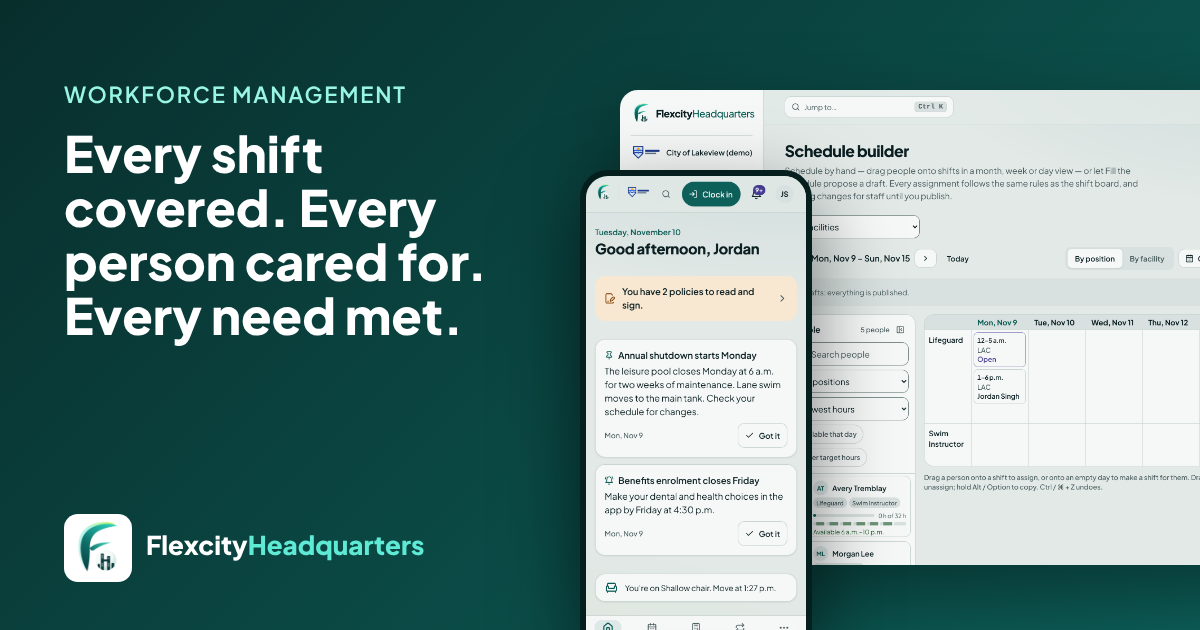
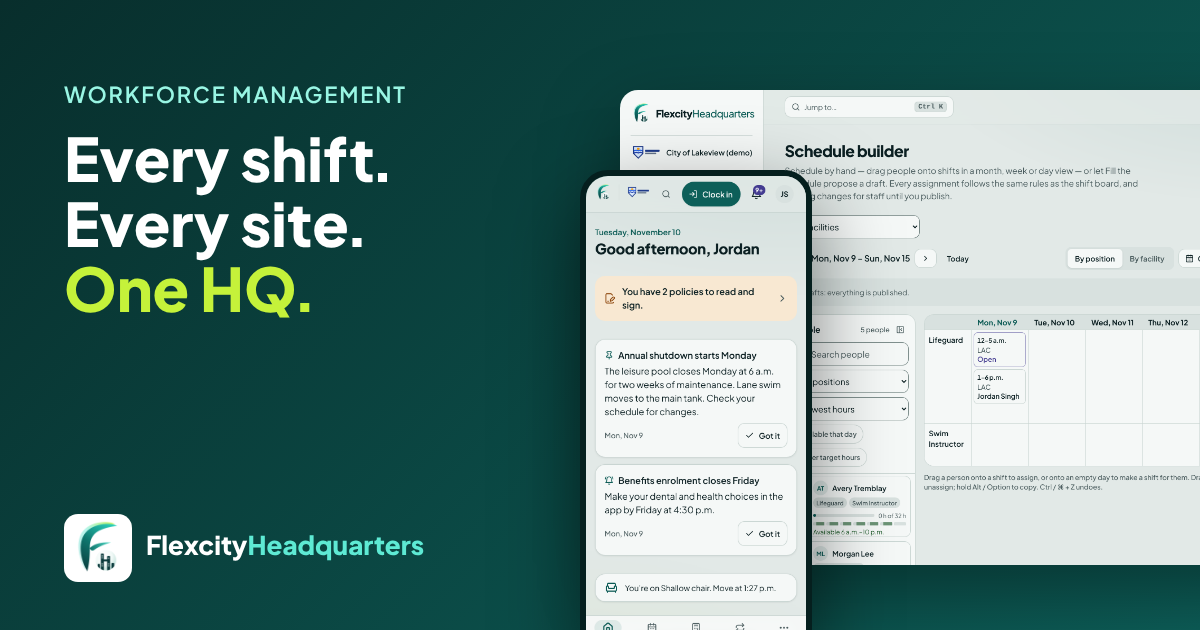
Website home: the motto "Every shift. Every site. One HQ." (FR "Chaque quart. Chaque site. Un seul QG.") as the hero headline, with what FH is as its lead-in line
The three beats rise in turn and never break inside themselves; a brand stroke draws under the
last one; all static without motion. The motto is one copy entry per language, also opens the
home page description, and is the share image's headline.

Claude-Session: https://claude.ai/code/session_014qc4kKsZ1tYaayi4AYRQBC

Changed region(s): [[0.0308, 0.2111, 0.4008, 0.5429], [0.2467, 0.8444, 0.2775, 0.8746]]

diff --git a/apps/site/src/app/[lang]/page.tsx b/apps/site/src/app/[lang]/page.tsx
@@ -1,4 +1,5 @@
 import { ArrowRight } from 'lucide-react';
+import type { CSSProperties } from 'react';
 import Link from 'next/link';
 import { Icon } from '@/components/Icon';
 import { AliveMark } from '@/components/AliveMark';
@@ -15,7 +16,7 @@ import { demoLink } from '@/lib/site';
 export async function generateMetadata(props: { params: Promise<{ lang: Lang }> }) {
   const params = await props.params;
   const c = copy(params.lang);
-  return pageMeta(params.lang, '', undefined, c.meta.description);
+  return pageMeta(params.lang, '', undefined, `${c.home.motto} ${c.meta.description}`);
 }
 
 export default async function Home(props: { params: Promise<{ lang: Lang }> }) {
@@ -52,10 +53,16 @@ export default async function Home(props: { params: Promise<{ lang: Lang }> }) {
           </div>
         </div>
         <div className="relative mx-auto grid max-w-7xl items-start gap-12 px-4 pb-14 pt-12 md:px-6 md:pb-20 md:pt-20 lg:grid-cols-[0.95fr_1.05fr] lg:gap-16">
-          <div className="rise">
-            <h1 className="text-hero2 [text-wrap:balance]">{keepHyphenated(h.title)}</h1>
-            <p className="mt-6 max-w-xl text-[1.125rem] leading-8 text-white/85">{h.lead}</p>
-            <div className="mt-8 flex flex-wrap gap-3">
+          <div>
+            {/* What it is, then the motto as the headline: one heading, read as one sentence by screen readers. */}
+            <h1>
+              <span className="rise block text-[1.0625rem] font-semibold leading-7 text-[#99F6E4] md:text-[1.1875rem]">{keepHyphenated(h.title)}</span>
+              <span className="mt-3 block text-hero2">
+                <Motto text={h.motto} />
+              </span>
+            </h1>
+            <p className="rise rise-3 mt-6 max-w-xl text-[1.125rem] leading-8 text-white/85">{h.lead}</p>
+            <div className="rise rise-4 mt-8 flex flex-wrap gap-3">
               <a href={demoLink('STAFF', params.lang)} className={btnLight}>
                 {h.ctaDemo}
                 <ArrowRight className="nudge h-4 w-4" aria-hidden="true" />
@@ -64,9 +71,9 @@ export default async function Home(props: { params: Promise<{ lang: Lang }> }) {
                 {h.ctaTalk}
               </Link>
             </div>
-            <p className="mt-4 text-caption text-white/70">{h.fine}</p>
+            <p className="rise rise-4 mt-4 text-caption text-white/70">{h.fine}</p>
           </div>
-          <div className="rise rise-2 sm:pt-28 lg:pt-24">
+          <div className="rise rise-3 sm:pt-28 lg:pt-24">
             <HeroConsole m={m} />
           </div>
         </div>
@@ -161,6 +168,39 @@ export default async function Home(props: { params: Promise<{ lang: Lang }> }) {
           </div>
         </div>
       </Section>
+    </>
+  );
+}
+
+/**
+ * The motto in three beats ("Every shift. Every site. One HQ."): each beat rises in turn and never
+ * breaks inside itself, and a hand-drawn brand stroke underlines the last one (all static without motion).
+ */
+function Motto({ text }: { text: string }) {
+  const beats = text.split(/(?<=\.)\s+/);
+  return (
+    <>
+      {beats.map((b, i) => (
+        <span key={i}>
+          {i ? ' ' : null}
+          <span className="motto-beat relative inline-block whitespace-nowrap" style={{ '--b': i } as CSSProperties}>
+            {/* The display face sets a loose full stop at this weight: pulled in slightly. */}
+            {b.endsWith('.') ? (
+              <>
+                {b.slice(0, -1)}
+                <span className="-ml-[0.06em]">.</span>
+              </>
+            ) : (
+              b
+            )}
+            {i === beats.length - 1 ? (
+              <svg aria-hidden="true" viewBox="0 0 100 12" preserveAspectRatio="none" className="absolute -bottom-[0.14em] left-0 h-[0.22em] w-full overflow-visible" fill="none">
+                <path className="motto-stroke" d="M2 8.5C22 4 48 2.5 98 6" pathLength="100" stroke="#C5F23A" strokeWidth="3" strokeLinecap="round" />
+              </svg>
+            ) : null}
+          </span>
+        </span>
+      ))}
     </>
   );
 }

diff --git a/apps/site/src/content/copy.ts b/apps/site/src/content/copy.ts
@@ -6,6 +6,8 @@ const en = {
   },
   nav: { product: 'Product', why: 'Why us', privateSector: 'Private sector', plans: 'Plans', demo: 'Demo', help: 'Help', faq: 'FAQ', contact: 'Contact', tryDemo: 'Try the demo', language: 'Français', languageLabel: 'Lire en français', menu: 'Menu', close: 'Close' },
   home: {
+    /** The brand motto: the home hero's headline and the sign-in screen's tagline (apps/web brand.motto). */
+    motto: 'Every shift. Every site. One HQ.',
     title: 'Workforce software built for Canadian cities',
     lead: 'Scheduling, time clocks and payroll export for every city department, from pools and arenas to parks and water works. Built on your province’s employment standards and your collective agreement, in English and French, on any phone.',
     ctaDemo: 'Try the live demo',
@@ -583,6 +585,7 @@ const fr: DeepString<Copy> = {
   },
   nav: { product: 'Produit', why: 'Pourquoi nous', privateSector: 'Secteur privé', plans: 'Forfaits', demo: 'Démo', help: 'Aide', faq: 'FAQ', contact: 'Contact', tryDemo: 'Essayer la démo', language: 'English', languageLabel: 'Read in English', menu: 'Menu', close: 'Fermer' },
   home: {
+    motto: 'Chaque quart. Chaque site. Un seul QG.',
     title: 'Un logiciel de main-d’œuvre conçu pour les villes canadiennes',
     lead: 'Horaires, pointage et exportation de la paie pour tous les services municipaux, des piscines et arénas aux parcs et aux travaux publics. Conçu selon les normes du travail de votre province et votre convention collective, en français et en anglais, sur tout téléphone.',
     ctaDemo: 'Essayer la démo',

diff --git a/apps/site/src/app/globals.css b/apps/site/src/app/globals.css
@@ -126,6 +126,12 @@ details > summary::-webkit-details-marker { display: none; }
   @keyframes fh-pulse { 0%, 100% { transform: scale(1); opacity: 1; } 50% { transform: scale(1.6); opacity: 0.55; } }
   .rise { animation: fh-rise 600ms cubic-bezier(0.2, 0.8, 0.2, 1) both; }
   .rise-2 { animation-delay: 120ms; }
+  .rise-3 { animation-delay: 240ms; }
+  .rise-4 { animation-delay: 360ms; }
+  /* The motto's underline draws itself once the headline has risen. */
+  @keyframes fh-stroke { from { stroke-dashoffset: 100; } to { stroke-dashoffset: 0; } }
+  .motto-beat { animation: fh-rise 600ms cubic-bezier(0.2, 0.8, 0.2, 1) both; animation-delay: calc(120ms + var(--b, 0) * 180ms); }
+  .motto-stroke { stroke-dasharray: 100; animation: fh-stroke 700ms cubic-bezier(0.6, 0, 0.3, 1) 1000ms both; }
   .float { animation: fh-float 6s ease-in-out infinite; }
   .pulse-dot { animation: fh-pulse 2.4s ease-in-out infinite; }
 
